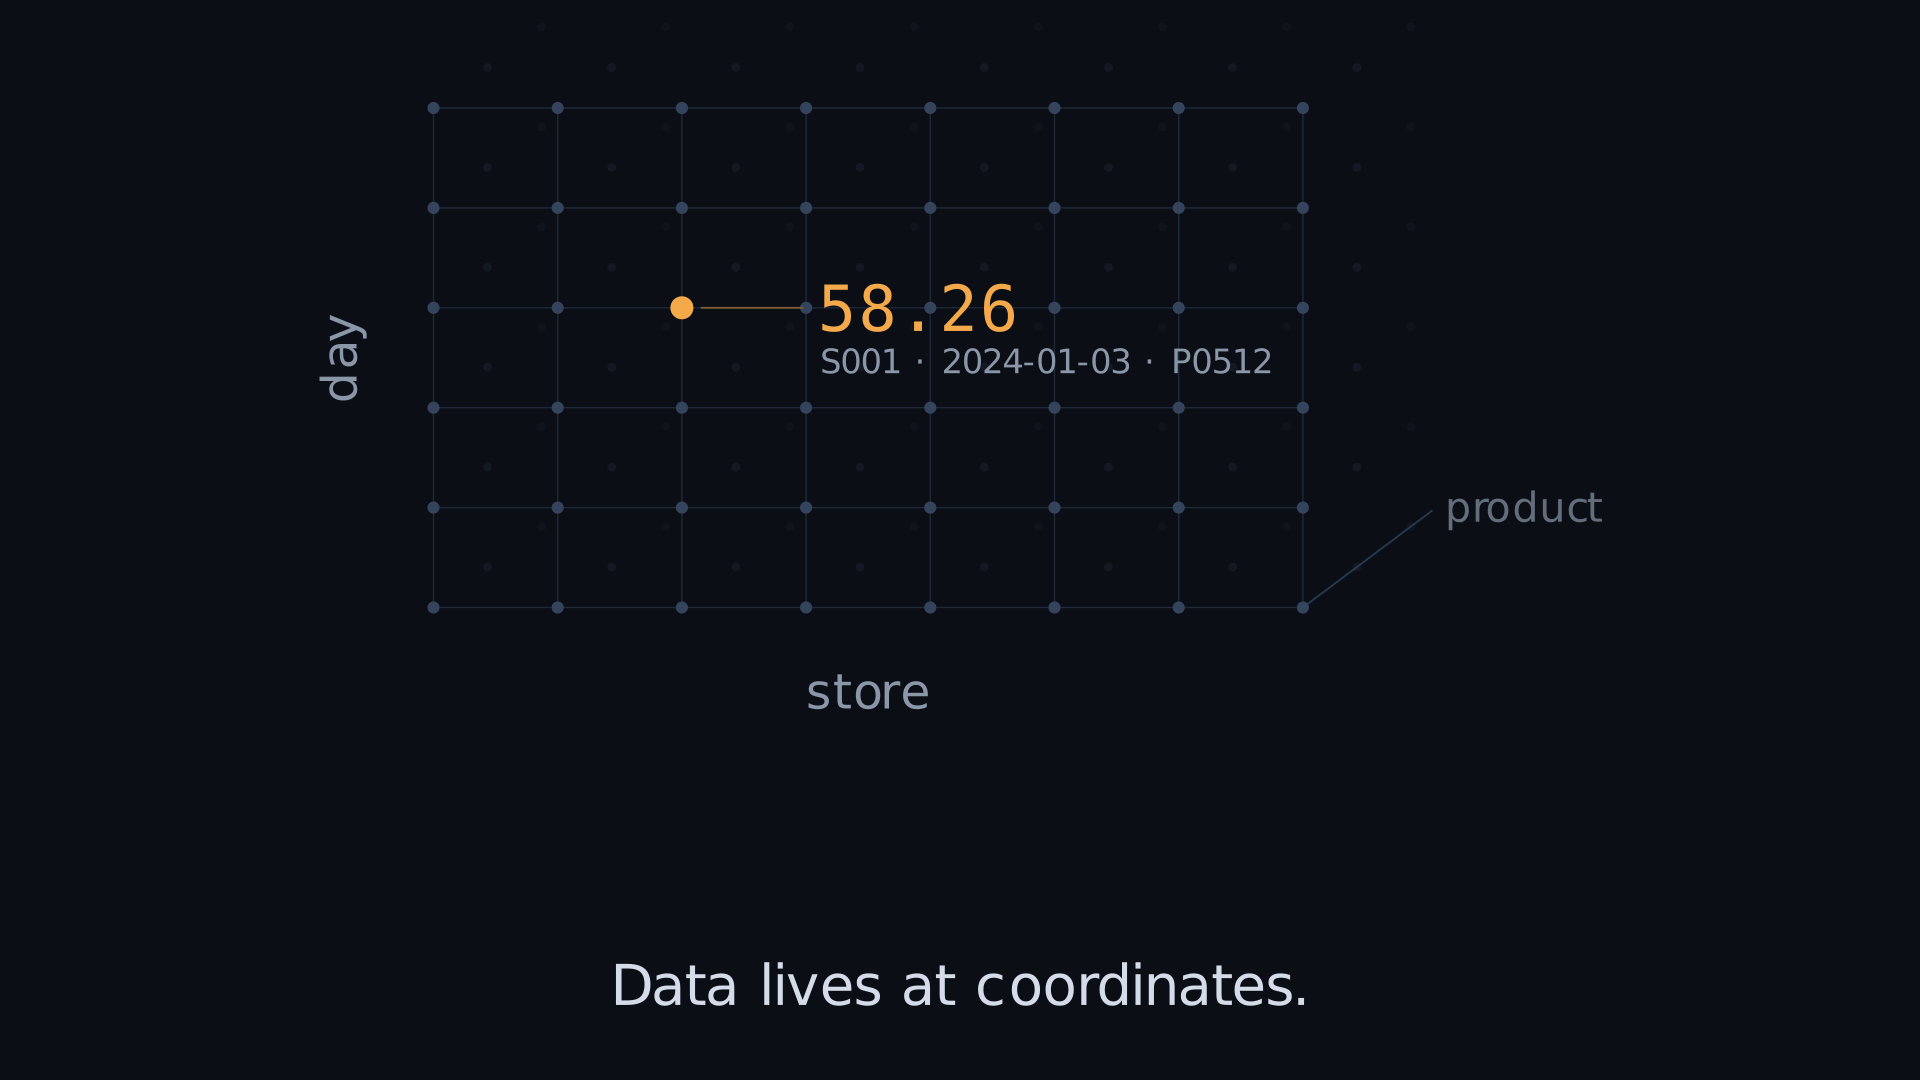
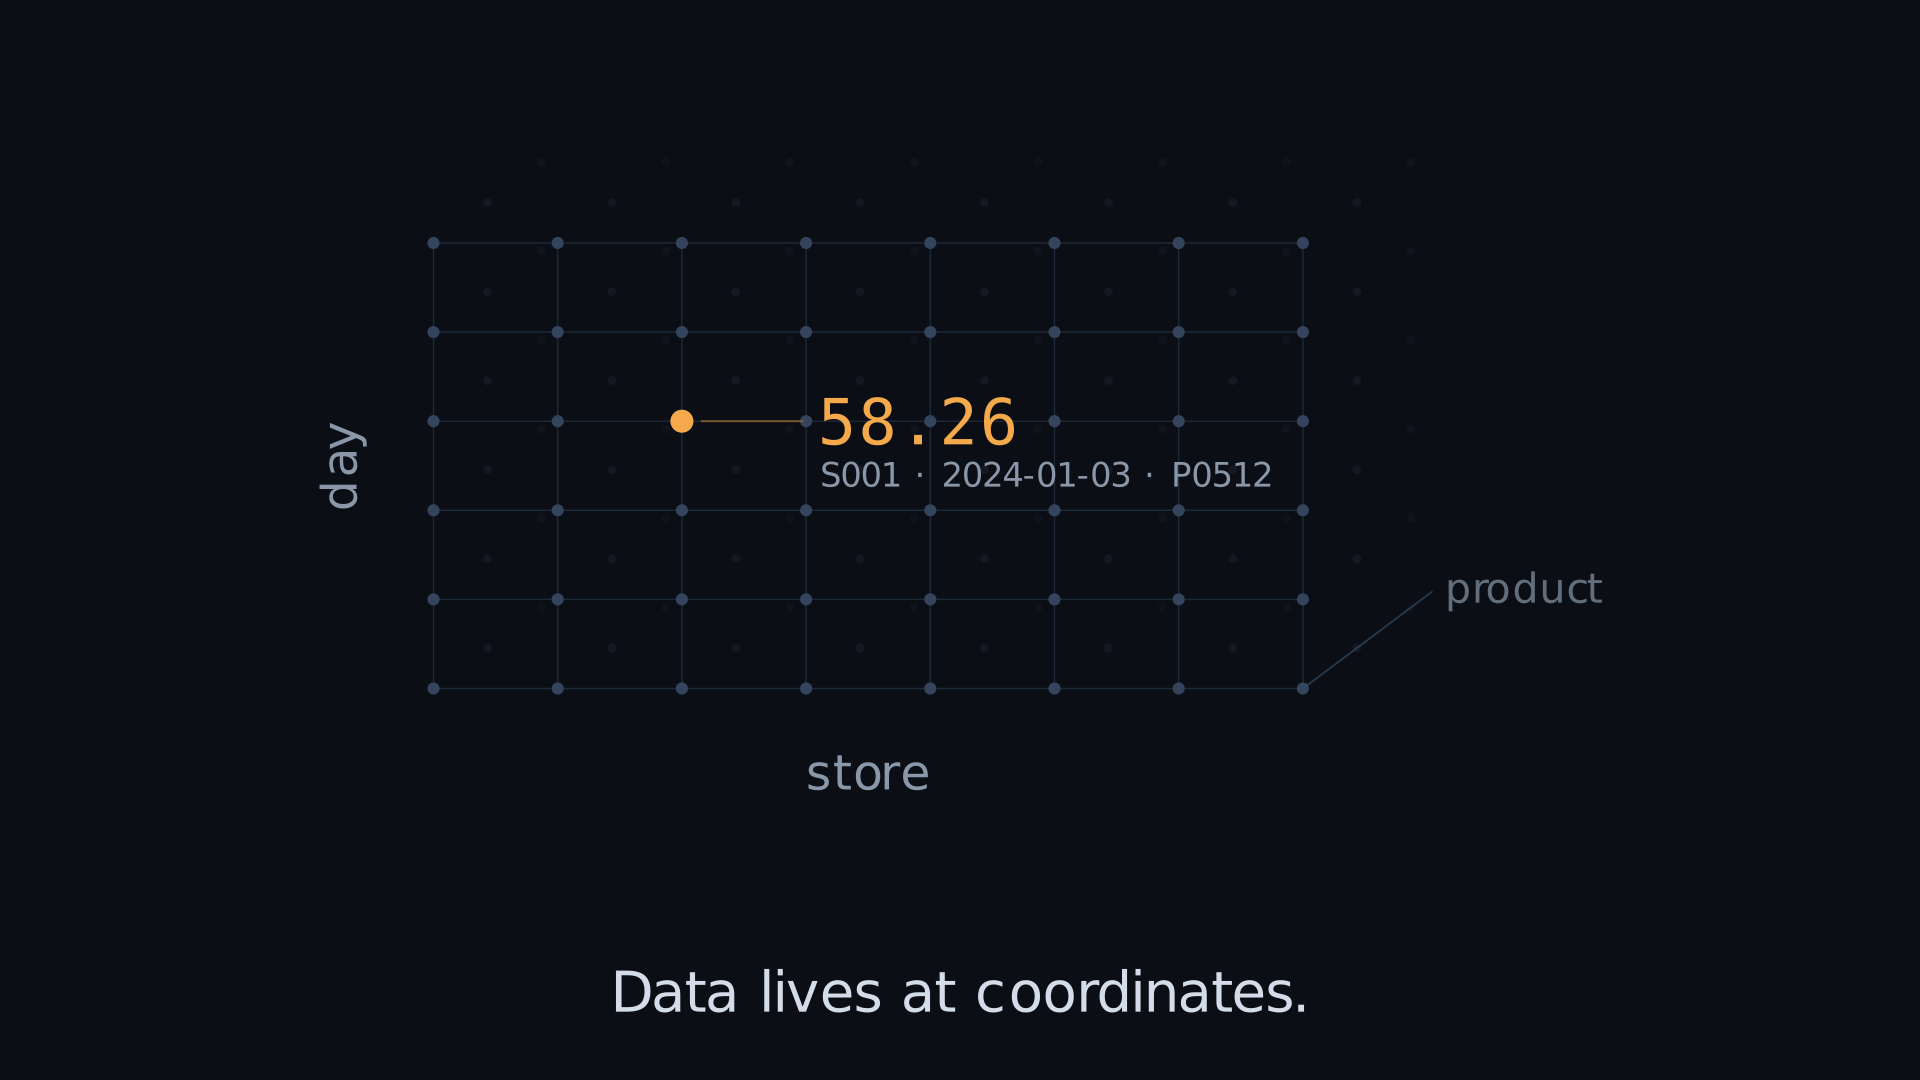
apps/media: Scene 2 (the universe) + shared grid geometry
Factor lattice geometry into grid.py so scenes share one coordinate space; lower
it slightly to open a top band for grammar/notation. Scene 2: the real store_days
predicate (day >= opened_date) written above, a per-store staircase frontier
sweeps and carves the region, inside points glow, outside dissolve to nothing.
Scene 1 re-rendered on the shared geometry (same composition).

diff --git a/apps/media/scene2_universe.py b/apps/media/scene2_universe.py
@@ -1,0 +1,88 @@
+"""Scene 2 — The universe.
+
+A predicate is written above (`day >= opened_date`, the real store_days predicate); a boundary
+sweeps across the lattice and carves a region. Points inside glow; points outside dissolve to
+nothing — not gray, *gone*. Caption: "A universe: the points that exist. Outside it, values
+aren't missing - they're not defined."
+"""
+from __future__ import annotations
+
+import numpy as np
+from manim import (
+    Scene,
+    VGroup,
+    VMobject,
+    Line,
+    FadeIn,
+    FadeOut,
+    Create,
+    Write,
+    RIGHT,
+    LEFT,
+    UP,
+    DOWN,
+)
+
+import brand as B
+import grid as G
+
+# per-store staircase: how many early-day rows fall *outside* (day < opened_date) for each column.
+# store_days' predicate is per-store (each store opened on a different date), so the frontier is a
+# staircase, not a straight line — the truthful shape of `day >= opened_date`.
+OUTSIDE_ROWS = [3, 2, 2, 1, 1, 1, 0, 0]
+
+
+def _inside(i: int, j: int) -> bool:
+    return j >= OUTSIDE_ROWS[i]
+
+
+class Scene2Universe(Scene):
+    def construct(self):
+        gridlines = G.gridlines(color=B.GRID_DIM, stroke_width=1.0)
+        dots = G.lattice()
+        lattice = VGroup(*dots.values())
+
+        # --- establish the coordinate space (continuity with Scene 1) ---
+        self.play(FadeIn(gridlines, run_time=0.8), FadeIn(lattice, run_time=0.9, lag_ratio=0.004))
+        self.wait(0.2)
+
+        # --- the predicate, written above ---
+        uni = B.label("universe  store_days", size=20, color=B.TEXT_SOFT)
+        pred = B.label("day ≥ opened_date", size=34, color=B.COOL, mono=True)
+        header = VGroup(uni, pred).arrange(DOWN, buff=0.16).to_edge(UP, buff=0.6)
+        self.play(Write(uni, run_time=0.6))
+        self.play(Write(pred, run_time=0.9))
+        self.wait(0.3)
+
+        # --- the frontier: a staircase just below the lowest in-universe row of each column ---
+        corners = []
+        for i in range(G.NX):
+            y = G.row_y(OUTSIDE_ROWS[i]) - G.DY / 2.0
+            xl = G.col_x(i) - G.DX / 2.0
+            xr = G.col_x(i) + G.DX / 2.0
+            corners.append(np.array([xl, y, 0.0]))
+            corners.append(np.array([xr, y, 0.0]))
+        frontier = VMobject(stroke_color=B.COOL, stroke_width=3.0)
+        frontier.set_points_as_corners(corners)
+
+        # sweep the boundary across the grid (left -> right)
+        self.play(Create(frontier, run_time=1.6))
+
+        # --- carve: outside dissolves to nothing; inside glows; scaffolding recedes ---
+        inside = [dots[(i, j)] for i in range(G.NX) for j in range(G.NY) if _inside(i, j)]
+        outside = [dots[(i, j)] for i in range(G.NX) for j in range(G.NY) if not _inside(i, j)]
+
+        self.play(
+            gridlines.animate.set_stroke(opacity=0.28),
+            *[d.animate.set_color(B.COOL).scale(1.25).set_opacity(1.0) for d in inside],
+            *[d.animate.scale(0.1).set_opacity(0.0) for d in outside],
+            run_time=1.6,
+        )
+        self.wait(0.3)
+
+        cap = B.caption(
+            "A universe: the points that exist.\nOutside it, values aren't missing - they're not defined.",
+            size=27,
+        )
+        self.play(Write(cap, run_time=1.2))
+        self.wait(1.8)

diff --git a/apps/media/grid.py b/apps/media/grid.py
@@ -1,0 +1,45 @@
+"""Shared lattice geometry so every scene sits on the *same* coordinate space.
+
+Scene 1 established these values; scenes 2+ import them so the grid never jumps between cuts.
+"""
+from __future__ import annotations
+
+import numpy as np
+from manim import Dot, Line, VGroup, RIGHT, UP, LEFT, DOWN
+
+import brand as B
+
+NX, NY = 8, 6            # store columns, day rows
+DX, DY = 0.92, 0.66
+# lowered, leaving a clean top band for the grammar/notation that scenes 2,4,5,6 write above
+ORIGIN = LEFT * 3.9 + DOWN * 1.1
+
+
+def pt(i: int, j: int) -> np.ndarray:
+    return ORIGIN + RIGHT * i * DX + UP * j * DY
+
+
+def gridlines(color: str = B.GRID_DIM, stroke_width: float = 1.0) -> VGroup:
+    g = VGroup()
+    for j in range(NY):
+        g.add(Line(pt(0, j), pt(NX - 1, j), stroke_width=stroke_width, color=color))
+    for i in range(NX):
+        g.add(Line(pt(i, 0), pt(i, NY - 1), stroke_width=stroke_width, color=color))
+    return g
+
+
+def lattice(radius: float = 0.045, color: str = B.DOT_DIM) -> dict:
+    """Map (i, j) -> Dot, so scenes can address individual coordinates."""
+    return {
+        (i, j): Dot(pt(i, j), radius=radius, color=color)
+        for i in range(NX)
+        for j in range(NY)
+    }
+
+
+def col_x(i: int) -> float:
+    return pt(i, 0)[0]
+
+
+def row_y(j: int) -> float:
+    return pt(0, j)[1]

diff --git a/apps/media/brand.py b/apps/media/brand.py
@@ -36,10 +36,13 @@ FONT = "DejaVu Sans"  # clean sans, bundled in the env; deterministic across ren
 MONO = "DejaVu Sans Mono"
 
 
-def caption(text: str, color: str = TEXT) -> Text:
-    """One sentence, clean sans, bottom third. The single voice of each scene."""
-    t = Text(text, font=FONT, weight="LIGHT", color=color, font_size=30)
-    t.to_edge(edge=(0, -1, 0), buff=0.55)  # bottom third
+def caption(text: str, color: str = TEXT, size: int = 30) -> Text:
+    """One sentence, clean sans, bottom third. The single voice of each scene.
+
+    A `\\n` in `text` makes a centered two-line caption (used where the brief's line is long).
+    """
+    t = Text(text, font=FONT, weight="LIGHT", color=color, font_size=size, line_spacing=0.8)
+    t.to_edge(edge=(0, -1, 0), buff=0.5)  # bottom third
     return t
 
 

diff --git a/apps/media/scene1_grid.py b/apps/media/scene1_grid.py
@@ -25,12 +25,12 @@ from manim import (
 )
 
 import brand as B
+import grid as G
 from data import NUM, S1_STORE, S1_PRODUCT, S1_DAY
 
-# grid geometry
-NX, NY = 8, 6           # store columns, day rows
-DX, DY = 0.92, 0.74
-ORIGIN = LEFT * 3.9 + DOWN * 0.5
+# grid geometry (shared, so nothing jumps between cuts)
+NX, NY = G.NX, G.NY
+DX, DY = G.DX, G.DY
 BRIGHT_I, BRIGHT_J = 2, 3   # the point that brightens (interior, clearly visible)
 
 # soft-perspective offset for the receding `product` axis
@@ -38,7 +38,7 @@ DEPTH = np.array([0.40, 0.30, 0.0])
 
 
 def _pt(i: int, j: int) -> np.ndarray:
-    return ORIGIN + RIGHT * i * DX + UP * j * DY
+    return G.pt(i, j)
 
 
 class Scene1Grid(Scene):